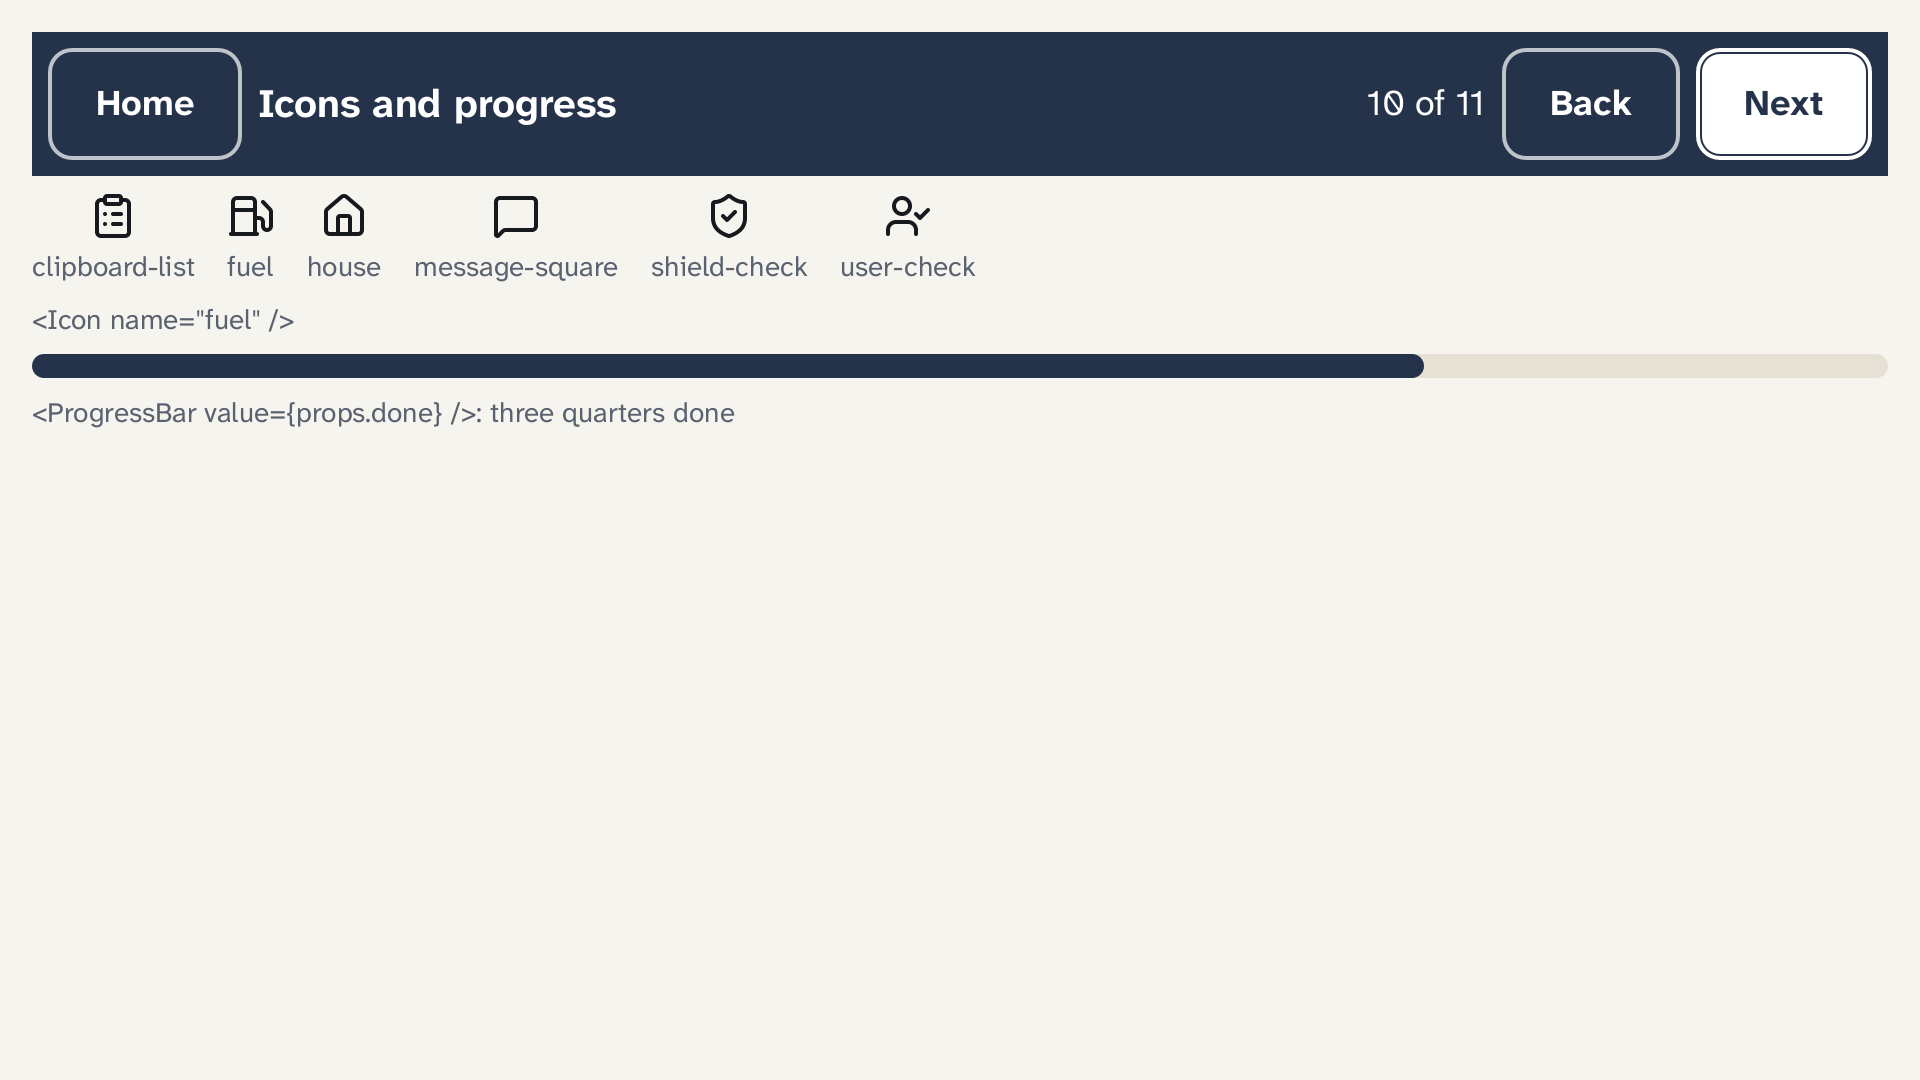
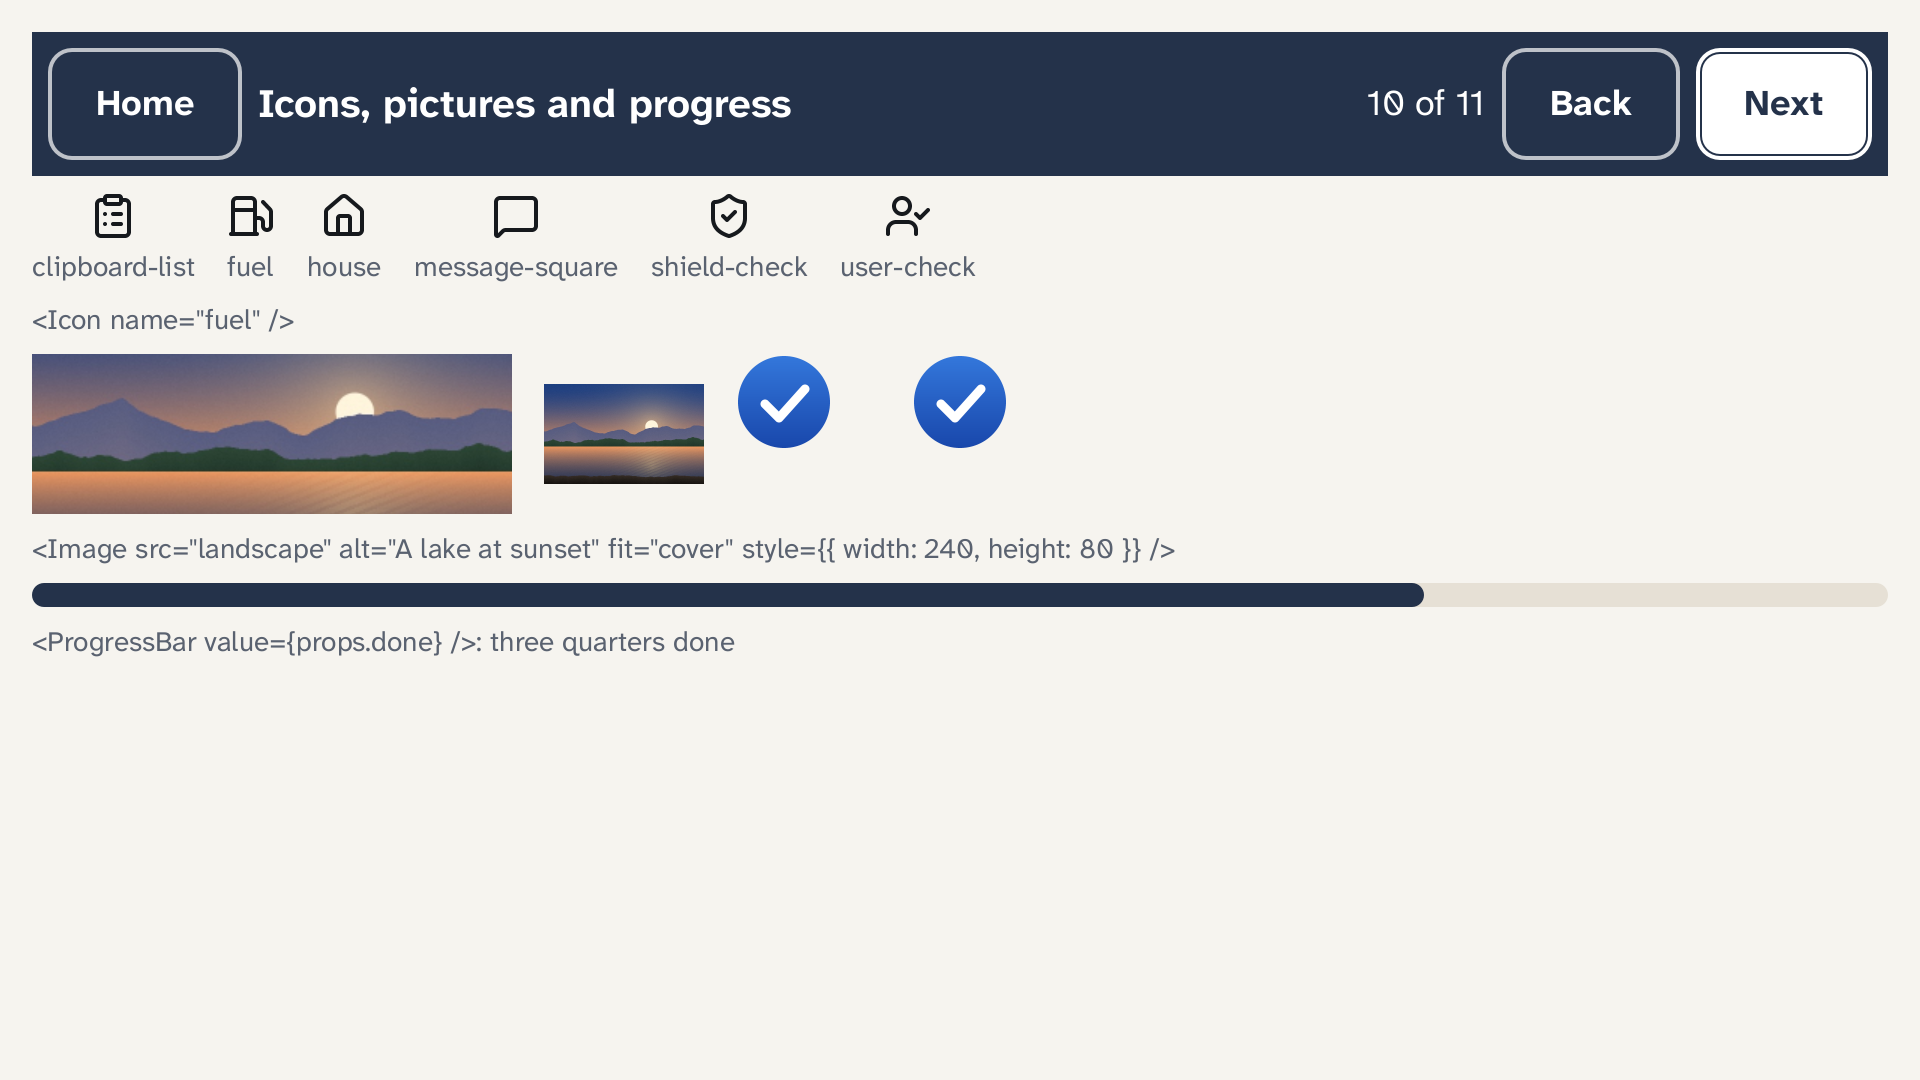
The showcase with pictures: NoWayOS 37a0721
The icons gallery screen shows NoWayOS's samples; screens are converted with their crate's pictures.names (contract v15).

Changed region(s): [[0.0, 0.3056, 1.0, 0.6111], [0.1875, 0.0917, 0.4062, 0.1222]]

diff --git a/showcase/showcase-app/tsx/gallery-icons.tsx b/showcase/showcase-app/tsx/gallery-icons.tsx
@@ -1,9 +1,10 @@
 // The Screen Compiler gallery, 10 of 11: every icon by its Lucide name, drawn in the colour of the text
-// around it, and a progress bar the application fills.
+// around it; pictures converted at build time, covering, contained and at their own size; and a
+// progress bar the application fills.
 // Each example is captioned with the TSX that made it. Written for the showcase in TSX and
 // converted at build time like every other screen here; the launcher's Screen Compiler
 // tile opens the first, and Back and Next go round them all.
-import { Button, Column, HeaderBar, Icon, ProgressBar, Row, Screen, Spacer, Text } from "nowayos:kit";
+import { Button, Column, HeaderBar, Icon, Image, ProgressBar, Row, Screen, Spacer, Text } from "nowayos:kit";
 
 const GAP = 8;
 const EDGE = 16;
@@ -25,7 +26,7 @@ export function GalleryIconsScreen(props: GalleryProps) {
             Home
           </Button>
           <Text id="title" role="heading">
-            Icons and progress
+            Icons, pictures and progress
           </Text>
           <Spacer />
           <Text>
@@ -65,6 +66,18 @@ export function GalleryIconsScreen(props: GalleryProps) {
           </Column>
         </Row>
         <Text role="caption">{'<Icon name="fuel" />'}</Text>
+        <Row gap={EDGE} style={{ alignItems: "start" }}>
+          <Image
+            src="landscape"
+            alt="A lake at sunset, hills behind it"
+            fit="cover"
+            style={{ width: 240, height: 80 }}
+          />
+          <Image src="landscape" alt="The same lake, whole" fit="contain" style={{ width: 80, height: 80 }} />
+          <Image src="badge" alt="" fit="fill" />
+          <Image src="badge" alt="" style={{ width: 96, height: 48, objectFit: "contain" }} />
+        </Row>
+        <Text role="caption">{'<Image src="landscape" alt="A lake at sunset" fit="cover" style={{ width: 240, height: 80 }} />'}</Text>
         <ProgressBar value={props.done} />
         <Text role="caption">{'<ProgressBar value={props.done} />: three quarters done'}</Text>
       </Column>

diff --git a/showcase/showcase-app/src/lib.rs b/showcase/showcase-app/src/lib.rs
@@ -69,6 +69,12 @@
 pub mod brands;
 pub mod generated;
 
+/// The pictures the screens show, which generated code names at the crate's
+/// root: NoWayOS's samples, a landscape and a badge (`pictures.names`).
+pub mod pictures {
+    pub use nowayos_ui::pictures::samples::{BADGE, LANDSCAPE};
+}
+
 use nowayos_display::Rect;
 use nowayos_input::{KeyCode, TouchPhase};
 use nowayos_render_eg::{Rgb888, Theme};
@@ -468,6 +474,15 @@ impl UiBuilder for Shifted<'_> {
     }
     fn icon(&mut self, icon: &'static nowayos_ui::icons::Icon) -> Result<NodeId, UiError> {
         UiBuilder::icon(&mut *self.tree, icon)
+    }
+    fn image(
+        &mut self,
+        picture: &'static nowayos_ui::builder::Picture,
+        fit: nowayos_ui::builder::Fit,
+        alt: &'static str,
+        layout: Layout,
+    ) -> Result<NodeId, UiError> {
+        UiBuilder::image(&mut *self.tree, picture, fit, alt, layout)
     }
     fn progress(&mut self, slot: SlotId) -> Result<NodeId, UiError> {
         let slot = SlotId::new(self.shift(slot.get()));
